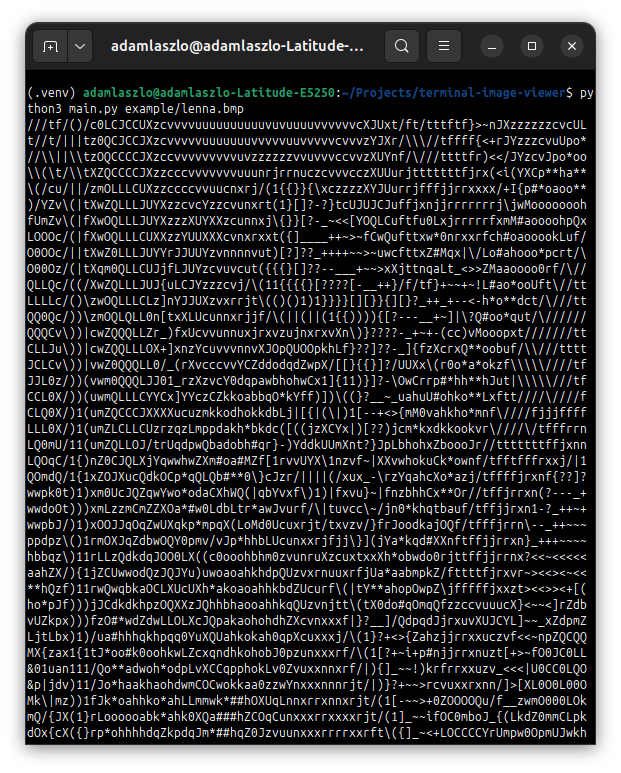
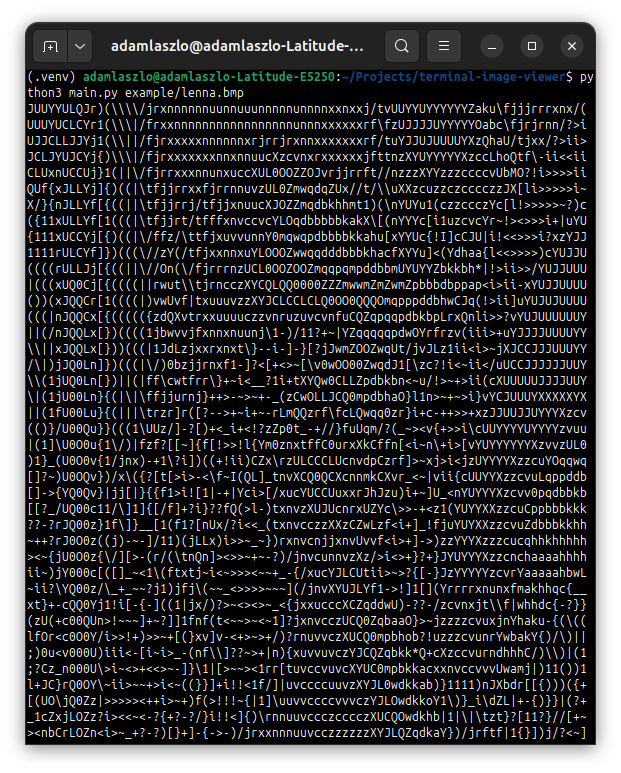
Fix value mapping

diff --git a/main.py b/main.py
@@ -2,7 +2,7 @@ import sys
 import numpy as np
 from PIL import Image, ImageOps
 
-value_to_character_map = '█$@B%8&WM#*oahkbdpqwmZO0QLCJUYXzcvunxrjft/\\|()1{}[]?-_+~<>i!lI;:,"^`\' '
+value_to_character_map = '█$@B%8&WM#*oahkbdpqwmZO0QLCJUYXzcvunxrjft/\\|()1{}[]?-_+~<>i!lI;:,"^`\' '[::-1]
 
 
 def image_to_text(image: np.ndarray) -> str:
@@ -11,7 +11,7 @@ def image_to_text(image: np.ndarray) -> str:
         for k in range(image.shape[1]):
             greyscale_value = image[i][k]
             text += value_to_character_map[int(
-                greyscale_value * (len(value_to_character_map) / 255.0))-1]
+                (len(value_to_character_map) - 1) * (greyscale_value / 255))]
         text += '\n'
     return text
 
